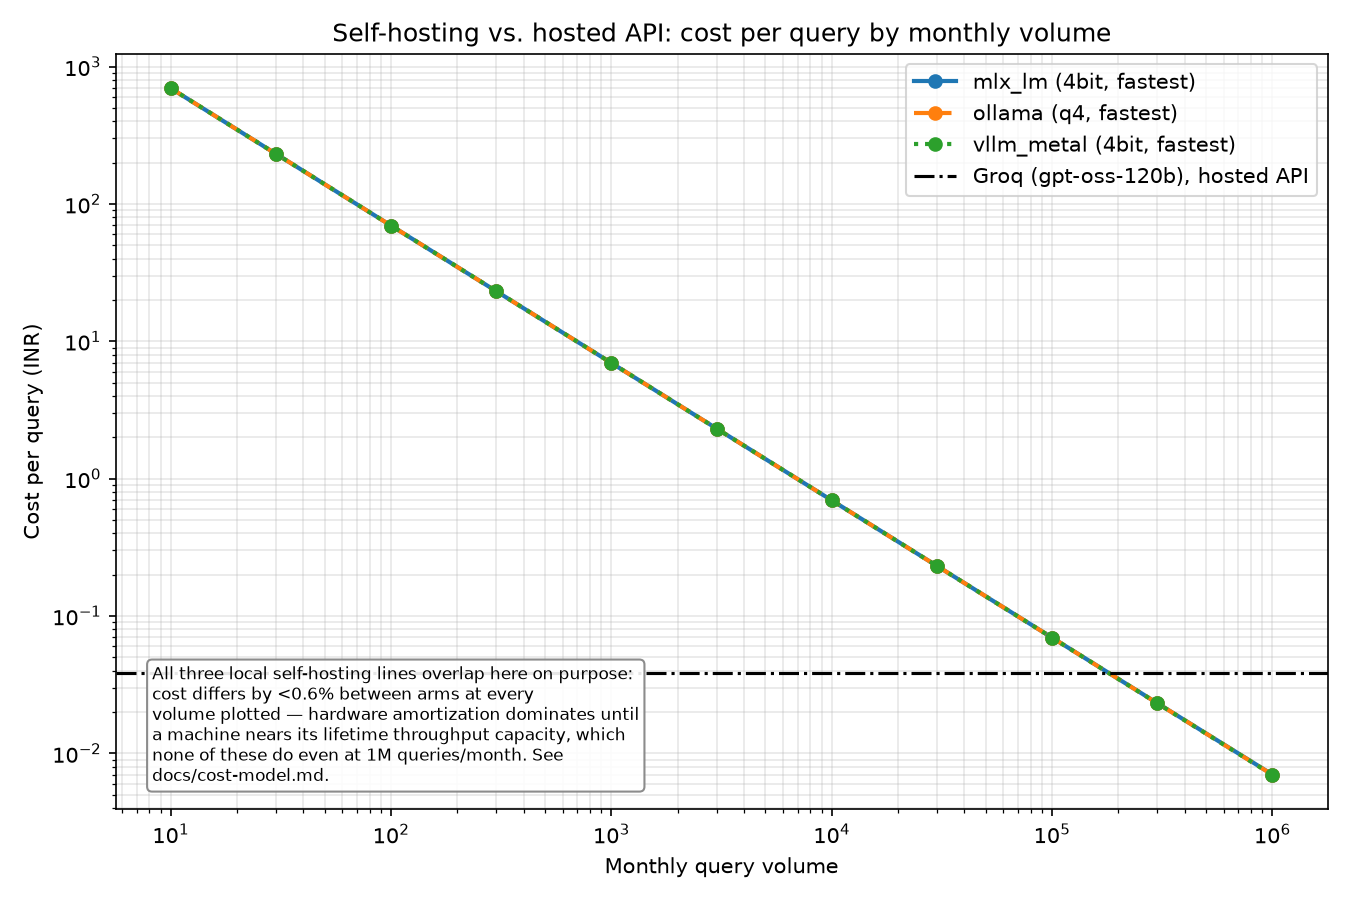
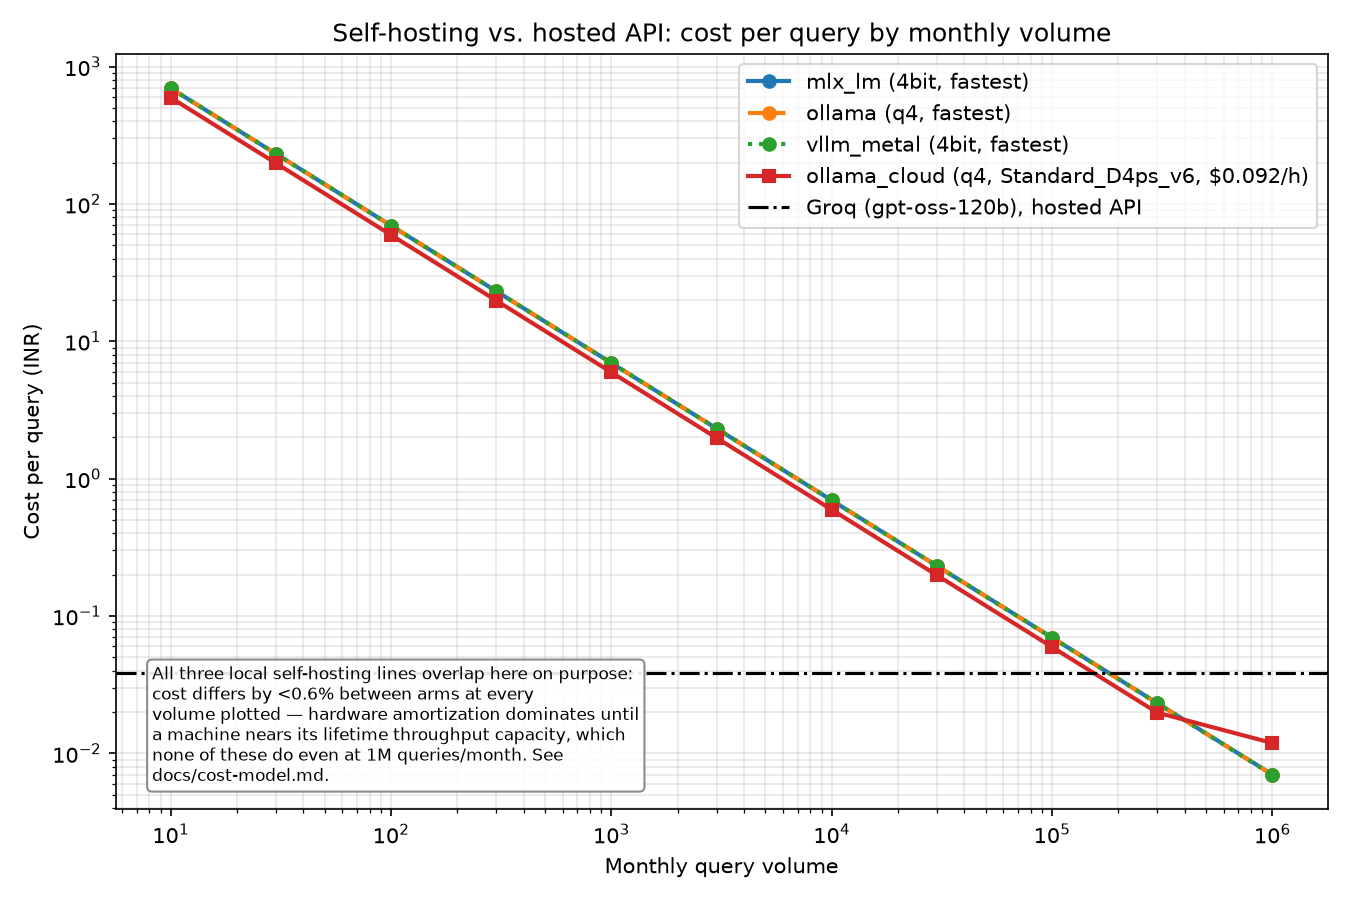
Measure ollama_cloud on Azure (Cobalt 100, D4ps_v6); re-score accuracy per case
First real cloud run. Standard_D4ps_v6, centralindia, Neoverse-N2 x4, 16 GB,
Ollama 0.32.14 with the Mac's measured settings (NUM_PARALLEL=1, FA off,
KEEP_ALIVE 5m); GGUF sha256 matched MANIFEST.json on the VM. 12 cells, 135
measured requests, 0 failures. RTT over the SSH tunnel 72 ms before / 70 ms
after. Raw rows are in results/sweep/ (gitignored).

- Cost model: "Cloud VMs" row at the c8/medium point — 18.2 tok/s, 50.0%
  accuracy, Rs 0.5936/query at 10k/month.
- accuracy_by_group.json re-scored with per-case weighting; 15 local groups
  moved (e.g. vllm_metal/4bit/long 0.158 -> 0.279). Every entry now carries
  accuracy_method.

Known caveat, not yet in the prose: long-bucket TTFT is dominated by Ollama's
prompt cache on BOTH machines (local c1 long TTFT ~0.1 s is a cache hit; cold
prefill on 4 Neoverse cores is 37-52 s). ITL is the clean hardware comparison.

diff --git a/docs/cost-model.md b/docs/cost-model.md
@@ -34,19 +34,23 @@ qualitative story, since idle-power draw is a small fraction of active-inference
 
 | Arm | Variant | Throughput (tok/s) | Accuracy | Cost/query @ 10k/mo | Break-even (queries/mo) | Cost per accuracy point |
 |---|---|---|---|---|---|---|
-| mlx_lm | bf16 | 69.8 | 36.4% | ₹0.6943 | 300,000 | ₹1.9093 |
-| mlx_lm | 8bit | 110.6 | 25.0% | ₹0.6942 | 300,000 | ₹2.7770 |
-| mlx_lm | 4bit | 154.9 | 33.3% | ₹0.6942 | 300,000 | ₹2.0827 |
+| mlx_lm | bf16 | 69.8 | 40.0% | ₹0.6943 | 300,000 | ₹1.7357 |
+| mlx_lm | 8bit | 110.6 | 30.0% | ₹0.6942 | 300,000 | ₹2.3141 |
+| mlx_lm | 4bit | 154.9 | 40.0% | ₹0.6942 | 300,000 | ₹1.7356 |
 | ollama | f16 | 76.8 | 40.0% | ₹0.6943 | 300,000 | ₹1.7357 |
 | ollama | q8 | 113.4 | 40.0% | ₹0.6942 | 300,000 | ₹1.7356 |
 | ollama | q4 | 151.7 | 50.0% | ₹0.6942 | 300,000 | ₹1.3884 |
-| vllm_metal | bf16 | 148.9 | 36.4% | ₹0.6942 | 300,000 | ₹1.9091 |
-| vllm_metal | 8bit | 330.6 | 30.8% | ₹0.6942 | 300,000 | ₹2.2561 |
-| vllm_metal | 4bit | 459.8 | 35.7% | ₹0.6942 | 300,000 | ₹1.9437 |
+| vllm_metal | bf16 | 148.9 | 35.6% | ₹0.6942 | 300,000 | ₹1.9525 |
+| vllm_metal | 8bit | 330.6 | 36.7% | ₹0.6942 | 300,000 | ₹1.8932 |
+| vllm_metal | 4bit | 459.8 | 43.3% | ₹0.6942 | 300,000 | ₹1.6020 |
 
 ## Cloud VMs — measured on rented hardware
 
-Not measured yet. Run the `ollama_cloud` (CPU) or `vllm_cuda` (GPU) arm — see `docs/cloud-arm.md` — and re-run this script; this section and its curves fill in from the result rows.
+`ollama_cloud` is the same Ollama daemon, Modelfile and GGUF as the local `ollama` arm on a rented CPU; `vllm_cuda` is vLLM serving the bf16 checkpoint on a rented GPU. Priced as an **always-on** VM at the hourly rate recorded on the result rows: cost per query falls as 1/volume until one VM is saturated, then scales out in whole VMs. Throughput is measured from the Mac across an SSH tunnel; the round trip lands in TTFT, not materially in tokens/sec. No scaling factor — unlike the estimated cloud-GPU row in the assumptions table, nothing here is extrapolated.
+
+| Arm | Variant | Machine | $/hour | Serving stack | Throughput (tok/s) | Failed | Accuracy | Cost/query @ 10k/mo | Break-even (queries/mo) | VMs @ 1,000,000/mo |
+|---|---|---|---|---|---|---|---|---|---|---|
+| ollama_cloud | q4 | Neoverse-N2 · Standard_D4ps_v6 · centralindia | $0.0924 | ollama 0.32.14 | 18.2 | 0/24 | 50.0% | ₹0.5936 | 300,000 | 2 |
 
 **Hosted API (Groq, gpt-oss-120b):** ₹0.0382/query flat (no utilization dependence), 66.7% accuracy on a real 15-case sample (avg 1469 prompt + 356 completion tokens — completion includes hidden reasoning-model tokens, confirmed live: at max_tokens=300 the model silently burned its entire budget on invisible reasoning on 4 of 15 real requests and returned no visible output at all).
 
